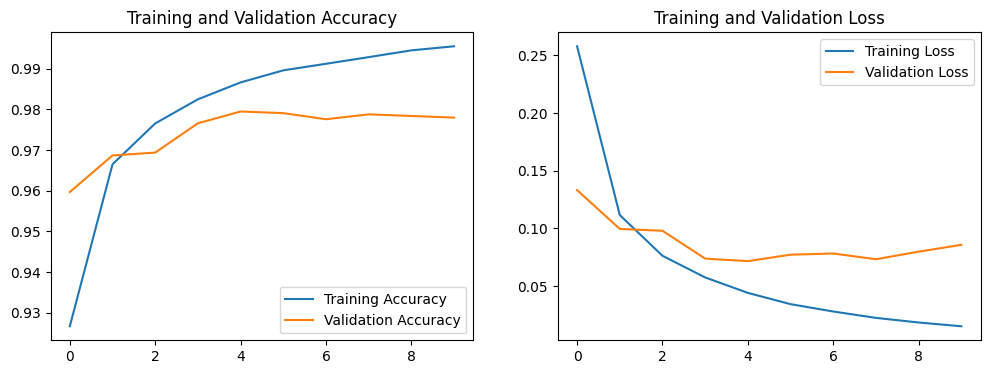
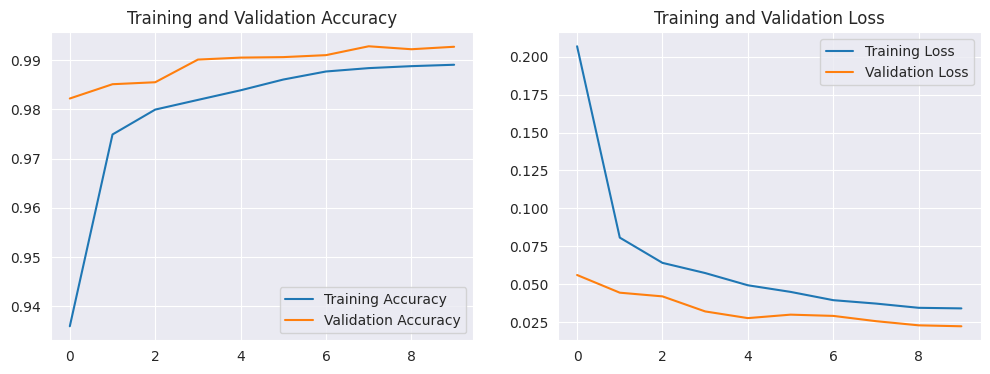
added fonts

diff --git a/README.md b/README.md
@@ -15,21 +15,18 @@ Key Activities:
 * Data Handling: The MNIST dataset, containing 70,000 images of handwritten digits, is loaded directly from TensorFlow's
   datasets library. The images are normalized by scaling their pixel values from a 0-255 range to a 0-1 range for better
   model performance.
-* Model Architecture: A `Sequential` model is constructed using the Keras API. It consists of:
-    - A `Flatten` layer to convert the 28x28 pixel images into a 1D array.
-    - A `Dense` hidden layer with 128 neurons and a `ReLU` activation function.
-    - A `Dense` output layer with 10 neurons (one for each digit) and a `softmax` activation function to output a
-      probability distribution.
-    - Training & Evaluation: The model is compiled with the adam optimizer and sparse_categorical_crossentropy loss
-      function. It's trained for 10 epochs, and its performance is validated on a separate test set.
-    - Artifact Generation: The final, trained model is saved to a file named `mnist_model.keras`, making it reusable for
-      deployment.
+
+* **Architecture**: A Convolutional Neural Network (CNN) built with the Keras Sequential API. It includes:
+* Two `Conv2D` layers (with 32 and 64 filters respectively) to identify features like edges and patterns.
+* `MaxPooling2D` layers to downsample and make the model more robust to digit positioning.
+* A `Dropout` layer (rate of 0.5) to prevent overfitting.
+* A final `Dense` output layer with a `softmax` activation function.
 
 * Training & Evaluation: The model is compiled with the `adam` optimizer and `sparse_categorical_crossentropy` loss
   function. It's trained for 10 epochs, and its performance is validated on a separate test set.
 * Artifact Generation: The final, trained model is saved to a file named `mnist_model.keras`, making it reusable for
   deployment.
-
+![layers.png](resources/layers.png)
 ### Model Performance Insights
 
 The model's performance was evaluated after training for 10 epochs.
